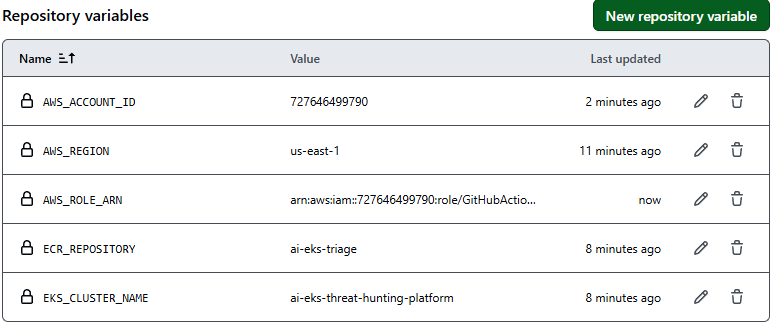
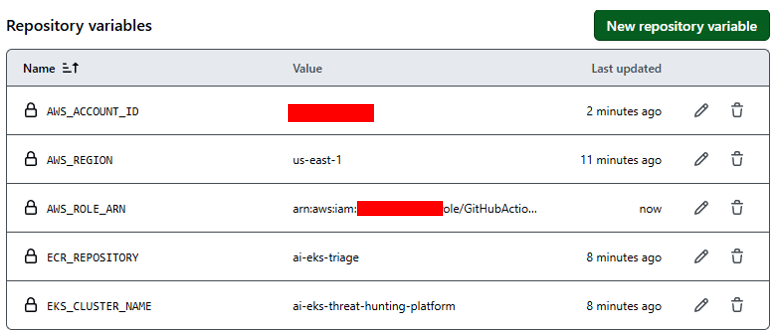
Update README figures references and author section

diff --git a/README.md b/README.md
@@ -1,20 +1,20 @@
 # AI-Powered EKS Threat Hunting & Cloud Incident Response Platform
 
-This project demonstrates a completed DevSecOps and runtime security workflow for Amazon EKS. It combines GitHub Actions, GitHub OIDC, Terraform validation, Python testing, CodeQL, Trivy, SBOM generation, Docker, Amazon ECR, Amazon EKS, Falco, AWS Security Agent, GuardDuty Runtime Monitoring, AI threat triage, and cloud incident response reporting.
+## Executive Summary
+
+This project demonstrates a completed cloud security and DevSecOps platform for Amazon EKS. It uses GitHub Actions, GitHub OIDC, Terraform, Python, Pytest, CodeQL, Trivy, SBOM generation, Docker, Amazon ECR, Amazon EKS, Falco, AWS Security Agent, GuardDuty Runtime Monitoring, AI threat triage, and cloud incident response reporting.
+
+The platform validates code and infrastructure, builds and scans container images, deploys the AI triage workload to EKS, detects runtime threats, maps alerts to MITRE ATT&CK, and generates incident response reports.
 
 ## Architecture Diagrams
 
-### High-Level Architecture
+![Figure 1. High-Level Architecture](img/ai-eks-threat-hunting-platform-diagram-v2.png)
 
-![High-Level Architecture](img/ai-eks-threat-hunting-platform-simple-diagram.png)
+Figure 1. High-level view of the platform showing CI/CD, security validation, runtime detection, AI triage, and incident response.
 
-Figure 1. High-level view of the AI-Powered EKS Threat Hunting & Cloud Incident Response Platform showing GitHub Actions CI/CD, security validation, container security, runtime threat detection, AI triage, and cloud incident response.
+![Figure 2. Detailed DevSecOps Architecture](img/ai-eks-threat-hunting-platform-detailed-diagram.png)
 
-### Detailed DevSecOps Architecture
-
-![Detailed Architecture](img/ai-eks-threat-hunting-platform-detailed-diagram.png)
-
-Figure 2. End-to-end DevSecOps workflow including GitHub Actions, OIDC authentication, Terraform validation, Python testing, CodeQL, Trivy, SBOM generation, Docker image build, Amazon ECR, Amazon EKS deployment, AWS Security Agent, GuardDuty runtime monitoring, AI triage, and incident response.
+Figure 2. Detailed DevSecOps workflow from GitHub Actions through EKS deployment, GuardDuty monitoring, AI triage, and incident response.
 
 ## Architecture Workflow
 
@@ -42,86 +42,92 @@ Git Push
 
 | Technology | Purpose |
 | --- | --- |
-| Terraform | Builds the EKS foundation and supporting AWS infrastructure. |
-| GitHub Actions | Automates CI/CD, validation, scanning, image build, and deployment. |
-| GitHub OIDC | Provides short-lived AWS authentication without long-term access keys. |
-| Pytest | Validates AI triage behavior with unit tests. |
-| CodeQL | Performs static analysis for Python code. |
-| Trivy | Scans the filesystem and container images for vulnerabilities. |
-| SBOM | Documents software components in CycloneDX format. |
-| Docker | Packages the AI triage workload as a container image. |
-| Amazon ECR | Stores validated container images. |
-| Amazon EKS | Runs Kubernetes workloads and runtime security tooling. |
-| Falco | Provides open-source runtime threat detection. |
-| AWS Security Agent | Supports AWS-native runtime visibility on EKS worker nodes. |
-| AWS GuardDuty Runtime Monitoring | Produces AWS-native runtime security findings. |
-| Python | Powers AI-assisted alert triage and incident report generation. |
-| MITRE ATT&CK | Maps detections to known adversary techniques. |
+| AWS | Cloud platform for the EKS security environment. |
+| Amazon EKS | Managed Kubernetes platform for container workloads. |
+| Amazon ECR | Container registry for AI triage images. |
+| Amazon VPC | Networking foundation for the EKS environment. |
+| Amazon S3 | Terraform remote state storage. |
+| Amazon DynamoDB | Terraform state locking. |
+| AWS IAM | Role and policy management for AWS access. |
+| GitHub Actions | CI/CD automation for validation, scanning, image build, and deployment. |
+| GitHub OIDC | Short-lived AWS authentication without long-term access keys. |
+| Terraform | Infrastructure as Code for AWS resources. |
+| Kubernetes | Container orchestration through Amazon EKS. |
+| kubectl | Kubernetes resource management. |
+| Docker | Container packaging for the AI triage workload. |
+| Python | Alert triage and incident report generation. |
+| Pytest | Unit testing for the AI triage workflow. |
+| CodeQL | Static analysis for Python code. |
+| Trivy | Filesystem and image vulnerability scanning. |
+| CycloneDX SBOM | Software component inventory format. |
+| Falco | Open-source runtime threat detection. |
+| AWS GuardDuty Runtime Monitoring | AWS-native runtime threat detection for EKS. |
+| AWS Security Agent | GuardDuty runtime visibility on EKS worker nodes. |
+| MITRE ATT&CK | Detection mapping to adversary techniques. |
 
 ## Completed Milestones
 
 - GitHub Actions CI/CD
 - GitHub OIDC Authentication
+- Terraform Validation
+- Python Validation
+- AI Triage Unit Testing
 - CodeQL Static Analysis
 - Trivy Security Scanning
 - SBOM Generation
 - Docker Build Pipeline
 - Amazon ECR Integration
 - Amazon EKS Deployment Pipeline
+- AWS Security Agent Validation
 - GuardDuty Runtime Monitoring
-- AWS Security Agent
 - Falco Runtime Detection Validation
-- AI Triage Unit Testing
+- AI Incident Report Generation
 
 ## Deployment Validation Evidence
 
-### EKS Cluster Deployment
+![Figure 3. Terraform-Managed EKS VPC](img/ai-eks-threat-hunting-platform-vpc.png)
 
-![EKS Cluster Deployment](img/aws-eks-apply-complete.png)
+Figure 3. Terraform created the VPC networking foundation used by the EKS environment.
 
-Terraform successfully deployed the Amazon EKS cluster and worker nodes.
+![Figure 4. Amazon ECR Repository](img/ai-eks-triage-ecr.png)
 
-### Amazon ECR Repository
+Figure 4. Amazon ECR stores the Docker image for the AI triage workload.
 
-![Amazon ECR Repository](img/ai-eks-triage-ecr.png)
+![Figure 5. GitHub Repository Variables](img/aws-github-repo-variables.png)
 
-Amazon ECR repository used for storing container images.
+Figure 5. GitHub repository variables store non-secret deployment configuration for the CI/CD workflows.
 
-### GitHub Actions Workflows
+![Figure 6. AWS GuardDuty Security Agent](img/aws-guard-duty-agent.png)
 
-![GitHub Actions Workflows](img/github-workflow.png)
+Figure 6. The AWS Security Agent is healthy and supports GuardDuty Runtime Monitoring on EKS worker nodes.
 
-CI/CD workflows automate testing, security validation, image builds, and deployments.
+![Figure 7. AI Triage Workload Deployment](img/deploy-ai-triage-workload-success.png)
 
-### GitHub OIDC Configuration
+Figure 7. GitHub Actions successfully deployed the AI triage workload to Amazon EKS.
 
-![GitHub OIDC Configuration](img/aws-github-repo-variables.png)
+![Figure 8. GitHub Actions Workflows](img/github-workflow.png)
 
-GitHub Actions uses OIDC federation and temporary credentials instead of long-lived AWS access keys.
+Figure 8. GitHub Actions workflows automate testing, security validation, image builds, and deployments.
 
-### GuardDuty Runtime Monitoring
+![Figure 9. Falco Runtime Test Workload](img/nginx-falco-test.png)
 
-![GuardDuty Runtime Monitoring](img/aws-guard-duty-agent.png)
+Figure 9. A controlled nginx workload was used to test runtime detection behavior.
 
-AWS Security Agent and GuardDuty Runtime Monitoring are enabled and healthy on EKS worker nodes.
+![Figure 10. Falco Runtime Test Results](img/nginx-falco-test-results.png)
 
-### Falco Runtime Detection Test
+Figure 10. The runtime test produced expected Kubernetes activity for detection validation.
 
-![Nginx Falco Test](img/nginx-falco-test.png)
+![Figure 11. Falco Detection Evidence](img/falco-detection-evidence.png)
 
-![Nginx Falco Test Results](img/nginx-falco-test-results.png)
+Figure 11. Falco detected shell activity inside a Kubernetes container and generated a runtime security alert.
 
-![Falco Detection Evidence](img/falco-detection-evidence.png)
+![Figure 12. Pytest Validation](img/pytest-passed.png)
 
-Falco successfully detected shell activity inside a Kubernetes container and generated runtime security alerts.
+Figure 12. Pytest confirmed the AI triage tests passed successfully.
 
-### AI Triage Validation
+![Figure 13. AI Triage Incident Reports](img/python-ai-triage-reports.png)
 
-![Pytest Passed](img/pytest-passed.png)
-
-![Python AI Triage Reports](img/python-ai-triage-reports.png)
-
-Python unit tests passed successfully and incident reports were automatically generated.
+Figure 13. The Python triage workflow generated Markdown incident reports from sample alerts.
 
 ## Security Validation Results
 
@@ -142,7 +148,7 @@ Validated Controls:
 
 ## AI Threat Triage
 
-The Python triage workflow processes Falco-style alerts, extracts Kubernetes context, maps detections to MITRE ATT&CK, recommends response actions, and generates Markdown incident reports.
+The AI triage workflow processes Falco-style alerts, extracts Kubernetes context, maps detections to MITRE ATT&CK, recommends response actions, and generates Markdown incident reports.
 
 ```bash
 python3 -m py_compile ai-triage/triage.py
@@ -192,7 +198,7 @@ This project demonstrates practical implementation of AWS cloud security, Amazon
 ## References
 
 | Tool / Service | Purpose | Official Documentation |
-| --- | --- | --- |
+| ---------------------------- | --------------------------------------------------------------------------- | ----------------------------------------------------------------------------------------------------------------------------------- |
 | AWS | Cloud platform used to host the project resources. | https://docs.aws.amazon.com/ |
 | Amazon EKS | Managed Kubernetes service used to run container workloads. | https://docs.aws.amazon.com/eks/ |
 | Amazon ECR | Container registry used to store Docker images. | https://docs.aws.amazon.com/ecr/ |